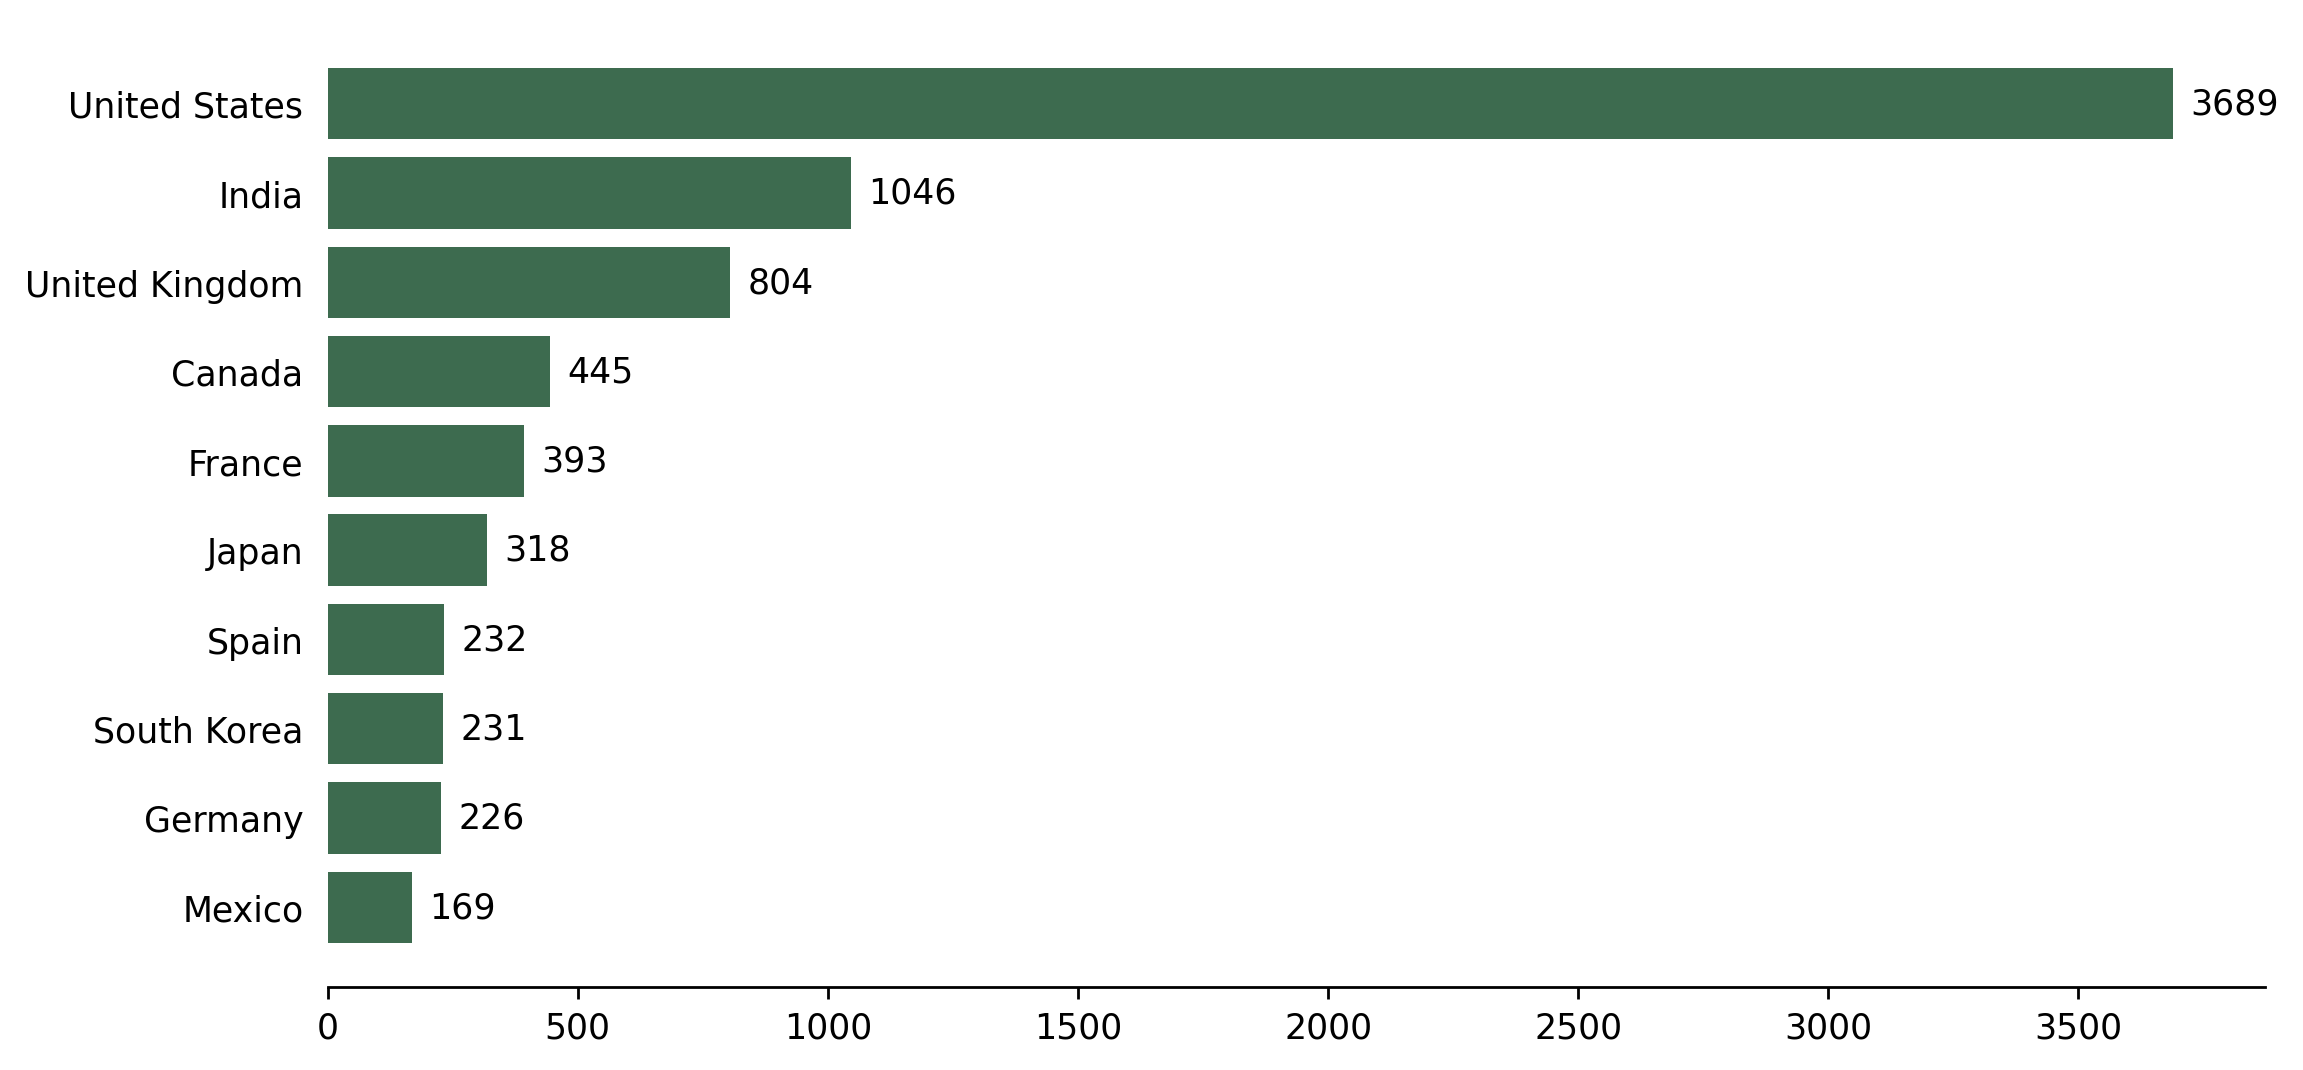
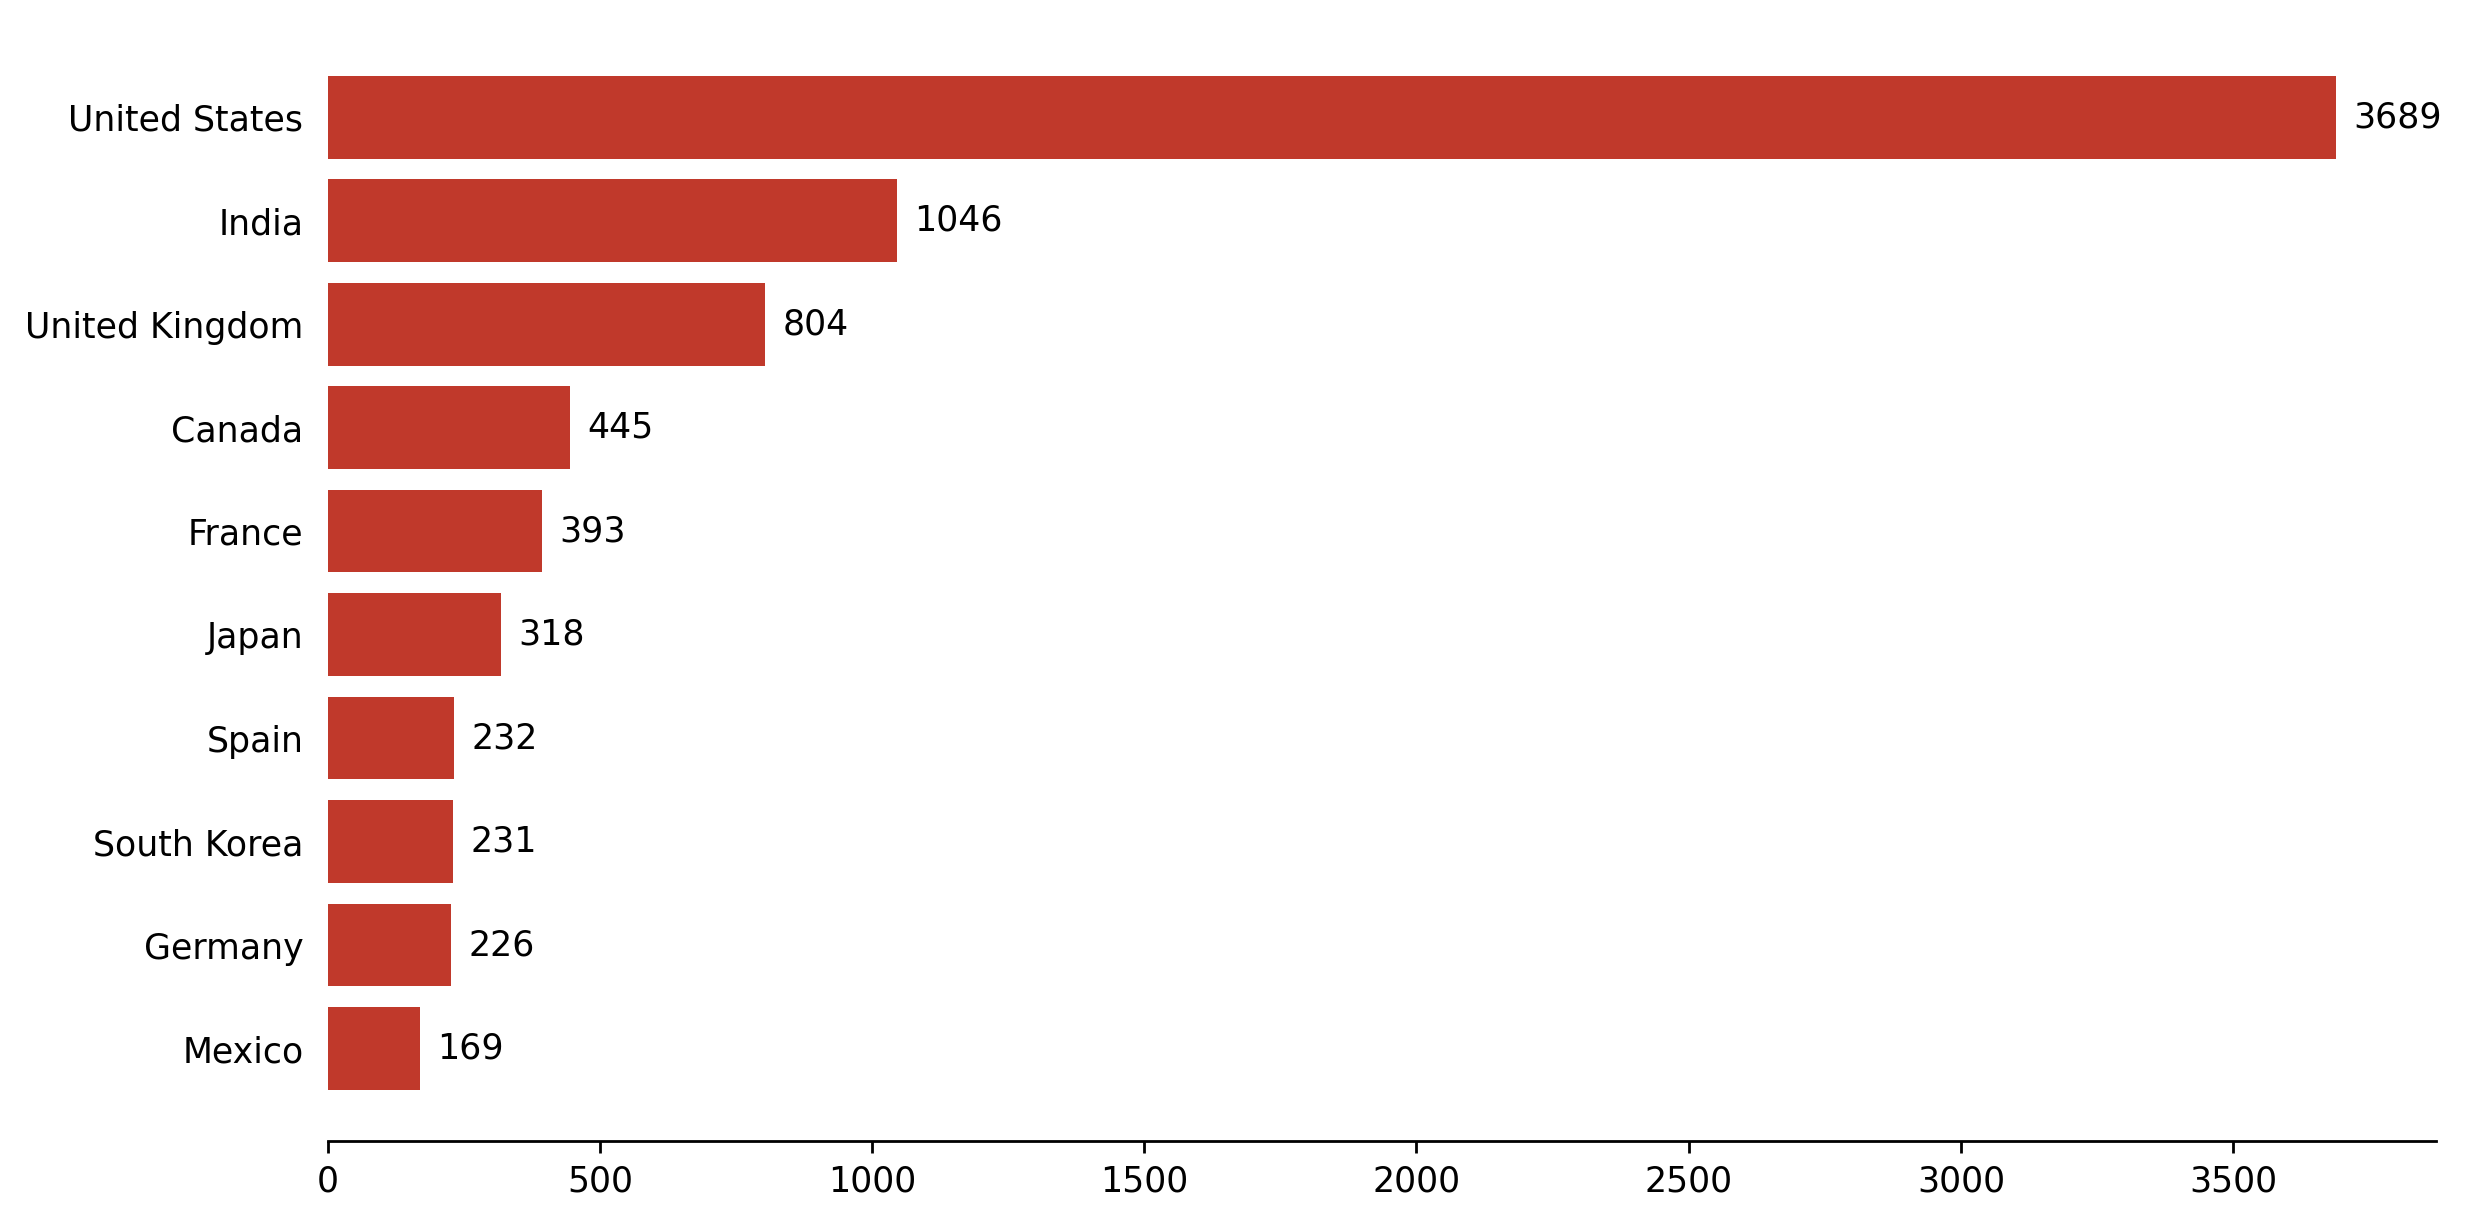
End of question 4 with all of its parts

Changed region(s): [[0.0, 0.0617, 0.9865, 0.8944], [0.1233, 0.9252, 0.9865, 0.9869]]

diff --git a/main.py b/main.py
@@ -161,14 +161,49 @@ countries = (netflix['country'].dropna()
              .rename('country').to_frame())
 top10 = countries['country'].value_counts().head(10)
 fig, ax = plt.subplots(figsize=(10, 5))
-bars = ax.barh(top10.index[::-1], top10.values[::-1], color='#3D6B4F')
+bars = ax.barh(top10.index[::-1], top10.values[::-1], color='#C0392B')
 ax.bar_label(bars, padding=5)
 ax.spines[['top','right','left']].set_visible(False)
 ax.tick_params(left=False)
+fig.tight_layout()
 plt.savefig('data/polt/Q4-2_Netflix_top_countres.png', dpi=250,
             bbox_inches='tight')
+plt.close()
+
 
 ###
 # END of Q 4.2 #
 ###
+
+
+netflix['year_added'] = pd.to_datetime(
+    netflix['date_added'].str.strip(),
+    errors='coerce').dt.year
+added = (netflix
+    [netflix['year_added'].between(2013,2021)]
+    .groupby(['year_added','type']).size()
+    .reset_index(name='count'))
+wide = added.pivot(
+    index='year_added', columns='type',
+    values='count').fillna(0)
+fig, ax = plt.subplots(figsize=(9, 5))
+wide.plot(kind='bar', stacked=True, ax=ax,
+    color=['#C0392B','#1B4F72'],
+    edgecolor='white')
+ax.set_xlabel('Year'); ax.set_ylabel('Titles Added')
+ax.tick_params(axis='x', rotation=0)
+ax.legend(title='Type', frameon=False)
+ax.spines[['top','right']].set_visible(False)
+
+fig.tight_layout()
+plt.savefig('data/polt/Q4-3_Netflix_Staked_bar.png', dpi=250,
+            bbox_inches='tight')
+plt.close()
+
+
+###
+# END of Q 4.3 #
+###
+
+
 